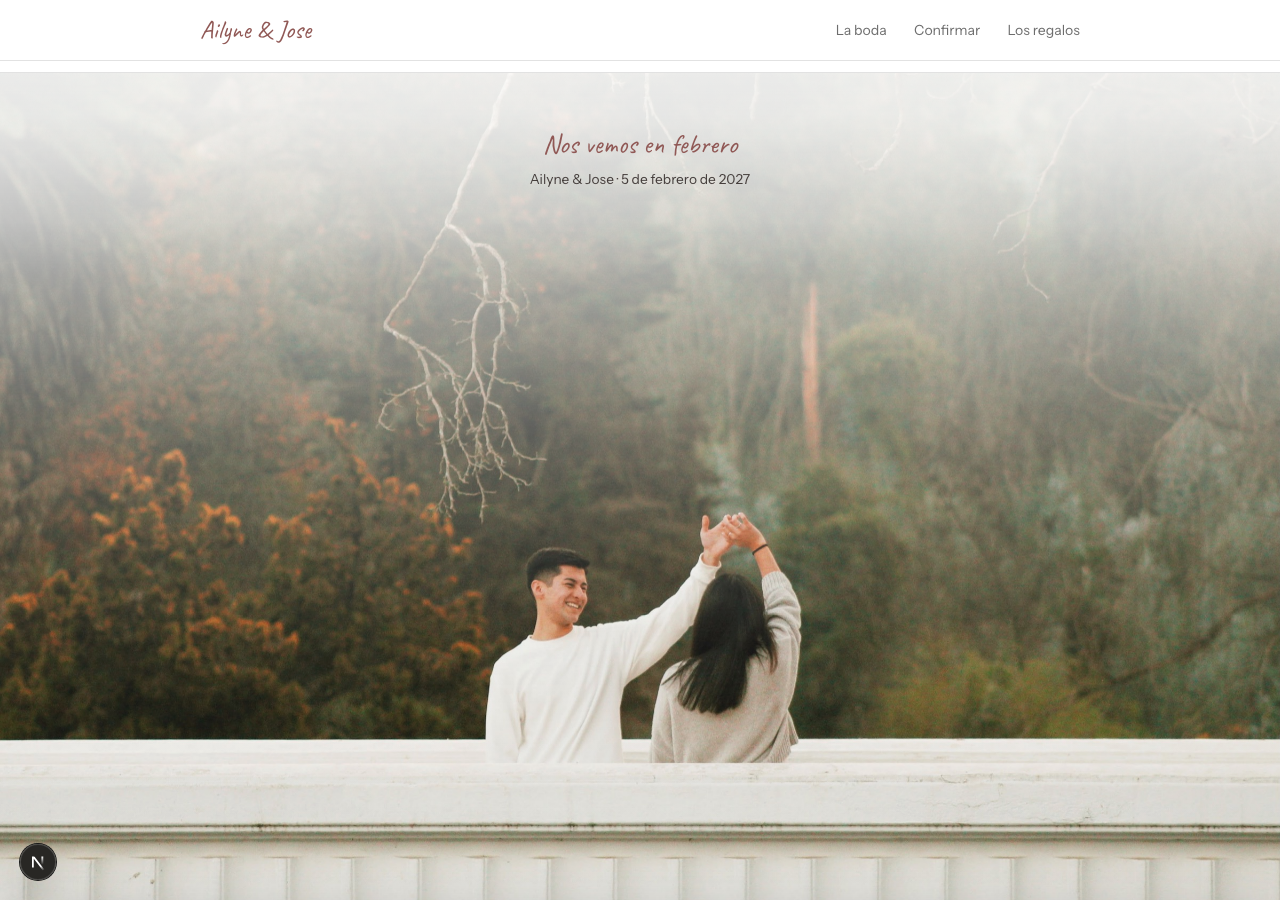
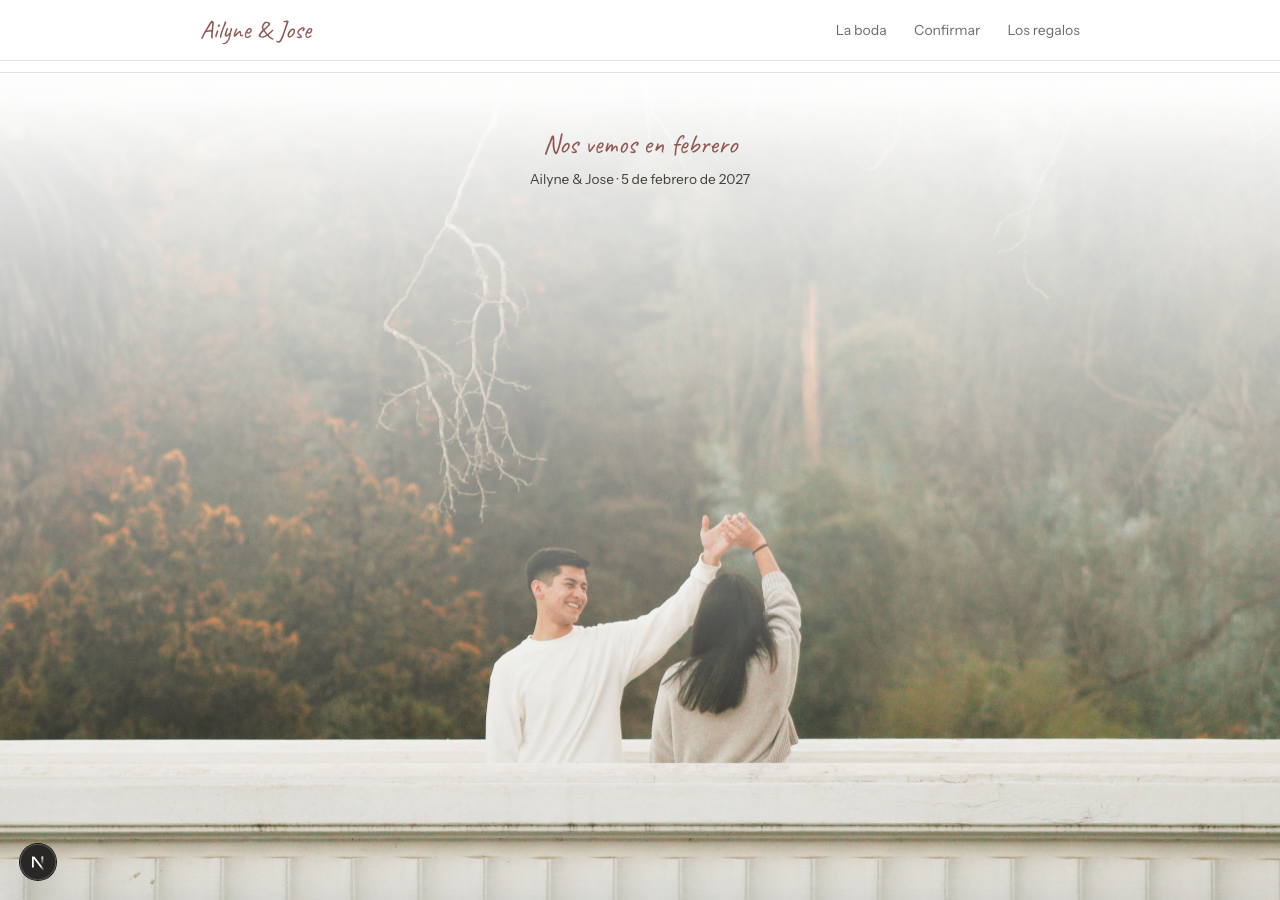
feat: el cierre recorre A y B en vez de elegir un punto entre las dos
El velo arrancaba en 0.91 y dejaba una costura donde la página blanca
tocaba la banda. Ahora parte de blanco puro, cae rápido hasta 0.875 a la
altura de la despedida y de ahí afloja hasta cero: la transición entre
tapar la foto y mostrarla es el degradado mismo.

El texto gana contraste al quedar sobre una franja más clara: la despedida
pasa de 3.58:1 a 4.32:1 y el detalle de 6.62:1 a 7.99:1, medidos sobre el
punto más oscuro que la foto pone bajo cada línea.

diff --git a/src/components/FondoFoto.module.css b/src/components/FondoFoto.module.css
@@ -73,24 +73,28 @@
   );
 }
 
-/* El cierre se detiene en 0.86 y no en blanco opaco: la foto sigue asomando
-   detrás de la despedida, pero queda bastante lavada como para que el texto
-   oscuro se lea sin sombras ni trucos. */
+/* El cierre no elige un punto entre tapar la foto y mostrarla: recorre los
+   dos. Arriba es blanco puro, así que empalma con la página sin costura;
+   baja rápido hasta dejar la foto entrevista bajo la despedida, y de ahí
+   afloja poco a poco hasta la foto limpia al pie de la pantalla. */
 .final .velo {
   background: linear-gradient(
-    to top,
-    rgba(255, 255, 255, 0) 0%,
-    rgba(255, 255, 255, 0.02) 20%,
-    rgba(255, 255, 255, 0.06) 31%,
-    rgba(255, 255, 255, 0.13) 41%,
-    rgba(255, 255, 255, 0.23) 50%,
-    rgba(255, 255, 255, 0.35) 59%,
-    rgba(255, 255, 255, 0.48) 67%,
-    rgba(255, 255, 255, 0.6) 75%,
-    rgba(255, 255, 255, 0.74) 82%,
-    rgba(255, 255, 255, 0.83) 89%,
-    rgba(255, 255, 255, 0.89) 95%,
-    rgba(255, 255, 255, 0.91) 100%
+    to bottom,
+    var(--fondo) 0%,
+    rgba(255, 255, 255, 0.985) 3%,
+    rgba(255, 255, 255, 0.955) 6%,
+    rgba(255, 255, 255, 0.915) 10%,
+    rgba(255, 255, 255, 0.875) 14%,
+    rgba(255, 255, 255, 0.83) 19%,
+    rgba(255, 255, 255, 0.77) 25%,
+    rgba(255, 255, 255, 0.69) 33%,
+    rgba(255, 255, 255, 0.58) 42%,
+    rgba(255, 255, 255, 0.45) 52%,
+    rgba(255, 255, 255, 0.32) 63%,
+    rgba(255, 255, 255, 0.2) 74%,
+    rgba(255, 255, 255, 0.1) 85%,
+    rgba(255, 255, 255, 0.04) 93%,
+    rgba(255, 255, 255, 0) 100%
   );
 }
 
